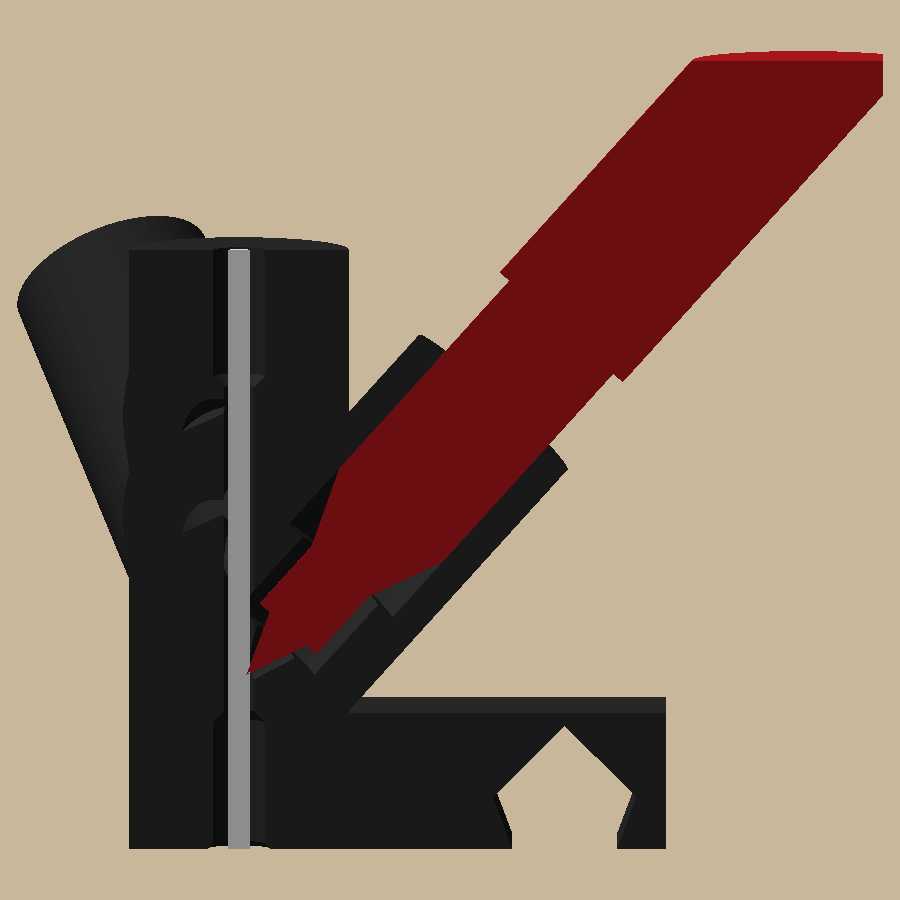
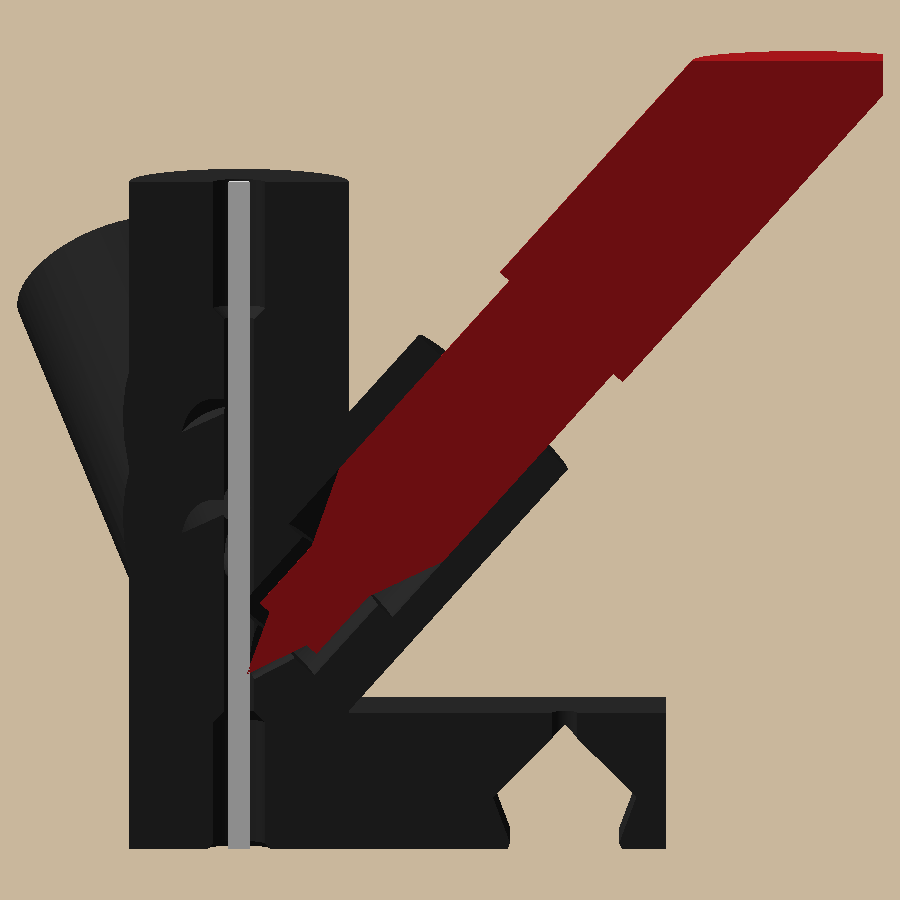
Sharpie colorizer: final review fixes: lock pin, raised inlet, chamfered slot mouth

Changed region(s): [[0.1244, 0.1867, 0.4044, 0.28]]

diff --git a/examples/sharpie-colorizer/sharpie_colorizer/parts/block.py b/examples/sharpie-colorizer/sharpie_colorizer/parts/block.py
@@ -2,7 +2,9 @@
 that slides onto the clip's rail. Prints as it stands (base on the bed); every bore leans at most tilt_deg."""
 import math
 
-from build123d import Align, Box, Cone, Cylinder, Location, Part, Plane, Pos, Rot, extrude
+from build123d import Align, Box, Cone, Cylinder, Location, Part, Plane, Pos, Rectangle, Rot, extrude
+
+from cadkit.shapes import poly
 
 from sharpie_colorizer.joints import marker_cavity, rail_profile, tube_socket
 from sharpie_colorizer.layout import base_t, boss_r, channel_y, column_r, mouth_l, tip_point, top_z
@@ -39,8 +41,19 @@ def make_use(p: Params = P) -> Part:
     out -= Pos(0, channel_y(p), top_z(p)) * Rot(180, 0, 0) * tube_socket(p)
     for i in range(len(p.azimuths_deg)):
         out -= marker_frame(p, i) * marker_cavity(p)
-    out -= Pos(-p.clip_w, 0, 0) * extrude(Plane.YZ * rail_profile(p, p.rail_clear, peaked=True), 2 * p.clip_w)
+    out -= Pos(-p.clip_w, 0, 0) * extrude(Plane.YZ * _slot(p), 2 * p.clip_w)
+    out -= Cylinder(p.pin_hole_d / 2, base_t(p), align=UP)  # lock pin, down into the rail
     return Part(out.solids())
+
+
+def _slot(p: Params):
+    """The rail slot with its peaked roof, chamfered bed_chamfer where it meets the bed (elephant foot)."""
+    slot = rail_profile(p, p.rail_clear, peaked=True)
+    half0 = (slot & Pos(0, 0.0) * Rectangle(40, 0.001)).bounding_box().size.X / 2
+    slope = (p.rail_head - p.rail_neck) / 2 / p.rail_h
+    v = p.bed_chamfer + 0.1  # end just inside the slot's flank, so no ledge is left where they meet
+    up, w = half0 + slope * v - 0.02, half0 + p.bed_chamfer
+    return slot + poly((-w, -1), (w, -1), (w, 0), (up, v), (-up, v), (-w, 0))
 
 
 def _offset(p: Params) -> tuple[float, float]:

diff --git a/examples/sharpie-colorizer/tests/test_assembly.py b/examples/sharpie-colorizer/tests/test_assembly.py
@@ -1,6 +1,7 @@
 """Everything on the bar: clip, block, three markers and both tubes clash with nothing, at either length reading
 and with worn felts; the felts reach the filament and nothing else does; the gantry's space stays empty."""
 import pytest
+from build123d import Pos
 
 from cadkit.clash import find_clashes
 from sharpie_colorizer.assembly import filament, marker, placed_parts
@@ -45,3 +46,25 @@ def test_gantry_space_empty():
     floor = -P.bar_h / 2 - P.clip_clear - P.clip_t - 1e-3
     low = {n: s.bounding_box().min.Z for n, s in placed_parts(P) if n not in ("bar", "outlet_tube")}
     assert {n: z for n, z in low.items() if z < floor} == {}
+
+
+def test_lock_pin_keeps_the_block_on_the_rail():
+    """Final review 2: a filament stub through the block's base into the rail stops the block sliding along X."""
+    from sharpie_colorizer.assembly import lock_pin
+    parts = dict(placed_parts(P))
+    pin = lock_pin(P)
+    assert "lock_pin" in parts
+    for dx in (-1.0, 1.0):
+        assert (Pos(dx, 0, 0) * parts["block"] & pin).volume > 0.01
+        assert (Pos(dx, 0, 0) * pin & parts["clip"]).volume > 0.01
+
+
+def test_lock_pin_reachable_from_above():
+    """Room above the pin hole for fingers: nothing of the block or the markers over it."""
+    from sharpie_colorizer.assembly import lock_pin
+    from build123d import Align, Cylinder
+    top = lock_pin(P).bounding_box().max.Z
+    reach = Pos(0, 0, top) * Cylinder(4, 10, align=(Align.CENTER, Align.CENTER, Align.MIN))  # room to grip and pull
+    for name, s in placed_parts(P):
+        if name not in ("lock_pin",):
+            assert (s & reach).volume == pytest.approx(0, abs=1e-3), name

diff --git a/examples/sharpie-colorizer/sharpie_colorizer/assembly.py b/examples/sharpie-colorizer/sharpie_colorizer/assembly.py
@@ -2,7 +2,7 @@
 from build123d import Align, Cylinder, Location, Part, Plane, Pos, RectangleRounded, extrude
 
 from sharpie_colorizer.joints import marker_solid
-from sharpie_colorizer.layout import channel_y, top_z
+from sharpie_colorizer.layout import base_t, channel_y, top_z
 from sharpie_colorizer.params import P, Params
 from sharpie_colorizer.parts import block, clip
 
@@ -41,8 +41,15 @@ def tube_paths(p: Params = P) -> list[tuple[str, Part]]:
             ("outlet_tube", Pos(x, y, bottom) * Cylinder(p.tube_od / 2, outlet_floor - bottom, align=UP))]
 
 
+def lock_pin(p: Params = P) -> Part:
+    """A 1.75 mm filament stub down through the block's base into the rail: keeps the block from sliding off."""
+    rail_top = web_top(p) + p.rail_h
+    z0, z1 = rail_top - p.pin_depth + 0.2, web_top(p) + base_t(p) + p.pin_proud
+    return Pos(0, 0, z0) * Cylinder(p.filament_d / 2, z1 - z0, align=UP)
+
+
 def placed_parts(p: Params = P, reading: str = "long", wear: float = 0.0) -> list[tuple[str, Part]]:
     """Bar, clip, block, markers and tubes, for clash checks and renders. Not the filament: felt touches it."""
     out = [("bar", bar(p)), ("clip", clip.place(p) * clip.make(p)), ("block", block.place(p) * block.make(p))]
     out += [(f"marker_{i}", marker(p, i, reading, wear)) for i in range(len(p.azimuths_deg))]
-    return out + tube_paths(p)
+    return out + tube_paths(p) + [("lock_pin", lock_pin(p))]

diff --git a/examples/sharpie-colorizer/tests/test_block.py b/examples/sharpie-colorizer/tests/test_block.py
@@ -81,3 +81,20 @@ def test_slot_takes_the_rail(part):
     rail = lambda c: Pos(-P.clip_w, 0, 0) * extrude(Plane.YZ * rail_profile(P, c), 2 * P.clip_w)
     assert (part & rail(0)).volume == pytest.approx(0, abs=1e-3)
     assert (part & rail(P.rail_clear + 0.1)).volume > 1
+
+
+def test_inlet_socket_walls_off_every_marker_cavity():
+    """Final review 1: 0.8 mm of plastic between the inlet funnel and every marker's cavity."""
+    from sharpie_colorizer.joints import marker_cavity, tube_socket
+    from build123d import Rot
+    grown = Pos(0, channel_y(P), top_z(P)) * Rot(180, 0, 0) * tube_socket(P, fit_d=P.tube_fit_d + 1.6)
+    for i in MARKERS:
+        assert (grown & block.marker_frame(P, i) * marker_cavity(P)).volume == pytest.approx(0, abs=1e-6), i
+
+
+def test_slot_mouth_chamfered_on_the_bed():
+    """Final review 5: elephant foot can't bind the rail where the slot meets the bed."""
+    from sharpie_colorizer.joints import rail_profile
+    mouth = Pos(-P.clip_w, 0, 0.05) * extrude(Plane.YZ * rail_profile(P, P.rail_clear + P.bed_chamfer / 2), 2 * P.clip_w)
+    assert (block.make_use(P) & (mouth & Pos(0, 0, 0.05) * Box(4 * P.clip_w, 40, 0.1))).volume == \
+        pytest.approx(0, abs=1e-4)

diff --git a/examples/sharpie-colorizer/sharpie_colorizer/layout.py b/examples/sharpie-colorizer/sharpie_colorizer/layout.py
@@ -67,11 +67,16 @@ def tip_point(p: Params = P, i: int = 0) -> tuple[float, float, float]:
     return (tip_r(p) * math.cos(phi), channel_y(p) + tip_r(p) * math.sin(phi), base_t(p) + p.tip_lift + i * p.stagger)
 
 
-def top_z(p: Params = P) -> float:
-    """Top of the column: above the last felt, a stretch of channel, the inlet's cone and socket."""
+def nose_bore_top(p: Params = P, i: int = 0) -> float:
+    """Highest point of marker i's nose bore (the cavity part nearest the channel above its felt)."""
     t = math.radians(p.tilt_deg)
-    z = tip_point(p, len(p.azimuths_deg) - 1)[2] + p.felt_l * math.cos(t) + p.inlet_gap + cone_h(p) + p.tube_depth
-    return p.printer.snap(z)
+    return tip_point(p, i)[2] + (fit_start_l(p) + 0.5) * math.cos(t) + (p.nose_d / 2 + p.nose_clear) * math.sin(t)
+
+
+def top_z(p: Params = P) -> float:
+    """Top of the column: inlet_wall above every nose bore, then the inlet's cone and socket (rounded up)."""
+    z = max(nose_bore_top(p, i) for i in range(len(p.azimuths_deg))) + p.inlet_wall + cone_h(p) + p.tube_depth
+    return p.printer.snap(z + p.printer.layer / 2)
 
 
 def boss_r(p: Params = P) -> float:

diff --git a/examples/sharpie-colorizer/sharpie_colorizer/parts/clip.py b/examples/sharpie-colorizer/sharpie_colorizer/parts/clip.py
@@ -1,6 +1,8 @@
 """The clip: snaps over the A1's top frame bar and carries the dovetail rail the block slides onto. It prints lying
 on its profile, so the walls that flex while it snaps on bend along the layers."""
-from build123d import Location, Part, Plane, Pos, extrude
+from build123d import Circle, Location, Part, Plane, Pos, extrude
+
+from cadkit.shapes import poly
 
 from sharpie_colorizer.joints import clip_profile
 from sharpie_colorizer.params import P, Params
@@ -13,6 +15,13 @@ def _corner(p: Params) -> tuple[float, float]:
 
 def make(p: Params = P) -> Part:
     out = Pos(*_corner(p), 0) * Part(extrude(clip_profile(p, p.hook), p.clip_w).solids())
+    # lock-pin hole down into the rail's top at mid-width: a teardrop pointing up in print, so it needs no bridge
+    r = p.pin_hole_d / 2
+    drop = Circle(r) + poly((-r * 0.7071, r * 0.7071), (r * 0.7071, r * 0.7071), (0, r * 1.4142))
+    cx, cy = _corner(p)
+    rail_top = cy + p.bar_h / 2 + p.clip_clear + p.clip_t + p.rail_h
+    out -= Pos(cx, rail_top, p.clip_w / 2) * extrude(Plane.XZ * drop, p.pin_depth)
+    out = Part(out.solids())
     out.label = "clip"
     return out
 

diff --git a/examples/sharpie-colorizer/sharpie_colorizer/params.py b/examples/sharpie-colorizer/sharpie_colorizer/params.py
@@ -53,7 +53,10 @@ class Params:
     rail_h: float = 4.0
     floor_t: float = 1.2  # above the rail slot's peak
     tip_lift: float = 3.0  # lowest felt tip above the base
-    inlet_gap: float = 3.0  # channel between the top window and the inlet socket's cone
+    inlet_wall: float = 0.8  # plastic between the top marker's nose bore and the inlet's cone
+    pin_hole_d: float = 2.0  # lock pin: a 1.75 mm filament stub through the base into the rail
+    pin_depth: float = 3.0  # how far the pin goes into the rail
+    pin_proud: float = 3.0  # how far it sticks up out of the base, to pull it
     # fit-test plate
     fit_h: float = 15.0  # marker strip height: the tilted bores grip about as long as the block's
     fit_wall: float = 1.6  # around each fit-test hole

diff --git a/examples/sharpie-colorizer/tests/test_clip.py b/examples/sharpie-colorizer/tests/test_clip.py
@@ -47,7 +47,7 @@ def test_nothing_below_the_lips(placed):
 def test_rail_on_top_at_center(placed):
     top = P.bar_h / 2 + P.clip_clear + P.clip_t + P.rail_h
     assert placed.bounding_box().max.Z == pytest.approx(top)
-    probe = Pos(-1, -20, top - 0.05) * Box(0.2, 40, 0.02, align=(Align.MIN,) * 3)
+    probe = Pos(-5, -20, top - 0.05) * Box(0.2, 40, 0.02, align=(Align.MIN,) * 3)  # clear of the pin hole
     (head,) = (placed & probe).solids()
     assert head.bounding_box().size.Y == pytest.approx(P.rail_head, abs=0.05)
     assert head.bounding_box().center().Y == pytest.approx(0, abs=1e-3)

diff --git a/examples/sharpie-colorizer/docs/specs/2026-10-18-sharpie-colorizer-design.md b/examples/sharpie-colorizer/docs/specs/2026-10-18-sharpie-colorizer-design.md
@@ -100,4 +100,12 @@ different colors would mix, but that's a side effect and not a goal.
     shoulder gap at the 28.5 mm reading even after 1 mm of wear (`wear_max`).
   - **The clip hook is fit-tested** at 1.5 / 2.0 / 2.5 mm. The default of 2.0 strains the wall about 1.4% while
     snapping on.
+- **2026-10-18: final review fixes.**
+  - **The block locks onto the rail with a filament pin.** A ~14 mm stub of the 1.75 mm filament goes down a
+    Ø2 hole in the block's base into a teardrop hole in the rail. Without it, pushing a marker in (58% of the force
+    runs along the bar) could slide the block off the rail. It's not a screw: there's no hardware, and it pulls
+    out with fingers.
+  - **The inlet is raised** so 0.8 mm of plastic separates its funnel from the top marker's nose bore. The column
+    is now 52.6 mm tall.
+  - **The slot is chamfered 0.4 mm where it meets the bed**, so elephant foot can't bind the rail.
 

diff --git a/examples/sharpie-colorizer/README.md b/examples/sharpie-colorizer/README.md
@@ -30,7 +30,8 @@ The block can face either way on the rail. Point the outlet at the head.
 
 ## Use
 
-1. Snap the clip onto the bar and slide the block onto the rail.
+1. Snap the clip onto the bar and slide the block onto the rail. Lock it: push a ~14 mm stub of filament down the
+   small hole in the base, behind the column, into the rail. Leave about 3 mm sticking up so you can pull it out.
 2. Push the guide tube from the swivel into the top socket. Push a second tube from the bottom socket to the head.
 3. Load white filament. Loading works with markers in.
 4. Push each marker in until the felt touches the filament. As the felt wears, push it a little deeper. After
